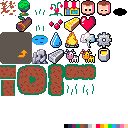
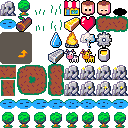
Animate pickupable resources

diff --git a/src/client/main.js b/src/client/main.js
@@ -100,7 +100,7 @@ const ANIMDATA_DETAIL = [
   },
   {
     idle: {
-      frames: [44,45],
+      frames: [3,11],
       times: [500, 500],
       times_random: [400, 400],
     },
@@ -114,6 +114,25 @@ const ANIMDATA_WORKER = {
     times_random: [5000, 100],
   },
 };
+
+const ANIMDATA_SOURCE = {
+  water: {
+    frames: [48, 49, 50, 51, 52, 53, 54, 55],
+    times: 250,
+    times_random: 100,
+  },
+  wood: {
+    frames: [56, 57, 58, 59, 60, 61, 62, 63],
+    times: 250,
+    times_random: 100,
+  },
+  metal: {
+    frames: [36, 37, 38, 39, 44, 45, 46, 47],
+    times: [500, 100, 100, 100, 500, 100, 100, 100],
+    times_random: [500, 0, 0, 0, 500, 0, 0, 0],
+  },
+};
+
 
 const TYPE_ROTATABLE = {
   [TYPE_CRAFT]: true,
@@ -446,7 +465,7 @@ const BOUNCE_ORDER = [0, 1, 3, 2];
 
 function gameToJson(state) {
   let ret = clone(state);
-  let { board, workers } = ret;
+  let { board, workers, cursor } = ret;
   for (let yy = 0; yy < board.length; ++yy) {
     let row = board[yy];
     for (let xx = 0; xx < row.length; ++xx) {
@@ -456,6 +475,9 @@ function gameToJson(state) {
   }
   for (let ii = 0; ii < workers.length; ++ii) {
     delete workers[ii].anim;
+  }
+  if (cursor) {
+    delete cursor.cell.anim;
   }
   ret.seed = rand.exportState();
   return ret;
@@ -685,9 +707,9 @@ function getCellFrame(cell, x, y, z) {
         } else if (up) {
           frame = 43;
         } else if (right) {
-          frame = 36;
+          frame = 14;
         } else if (left) {
-          frame = 37;
+          frame = 15;
         }
       }
       break;
@@ -702,16 +724,28 @@ function getCellFrame(cell, x, y, z) {
     case TYPE_SOURCE:
       switch (cell.resource) {
         case RESOURCE_WOOD:
-          frame = 1;
+          if (!cell.anim) {
+            cell.anim = createSpriteAnimation(ANIMDATA_SOURCE);
+            cell.anim.setState('wood');
+            cell.anim.update(floor(random() * 1000));
+          }
+          frame = cell.anim.getFrame(engine.frame_dt);
           break;
-        // case RESOURCE_BERRY:
-        //   frame = 3;
-        //   break;
         case RESOURCE_WATER:
-          frame = 18;
+          if (!cell.anim) {
+            cell.anim = createSpriteAnimation(ANIMDATA_SOURCE);
+            cell.anim.setState('water');
+            cell.anim.update(floor(random() * 1000));
+          }
+          frame = cell.anim.getFrame(engine.frame_dt);
           break;
         case RESOURCE_METAL:
-          frame = 26;
+          if (!cell.anim) {
+            cell.anim = createSpriteAnimation(ANIMDATA_SOURCE);
+            cell.anim.setState('metal');
+            cell.anim.update(floor(random() * 1000));
+          }
+          frame = cell.anim.getFrame(engine.frame_dt);
           break;
         default:
           assert(0);
@@ -1128,6 +1162,7 @@ function drawShop(x0, y0, w, h) {
       refundCursor();
       if (!same) {
         game_state.cursor = clone(elem);
+        delete game_state.cursor.cell.anim;
         payCost(elem);
       }
     }
@@ -1506,6 +1541,7 @@ function drawBoard(x0, y0, w, h) {
         cursor = game_state.cursor = {
           cell: clone(cell),
         };
+        delete game_state.cursor.cell.anim;
         if (cursor.cell.type !== TYPE_SOURCE) {
           delete cursor.cell.resource;
         }
